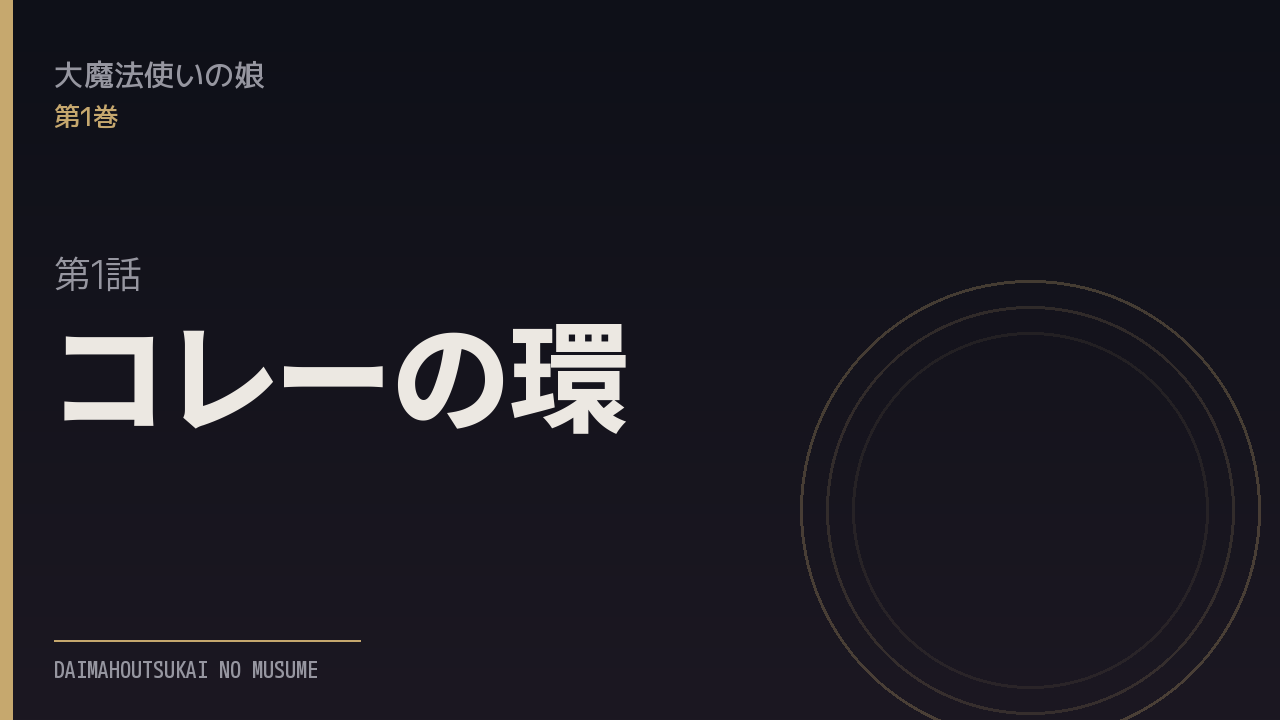
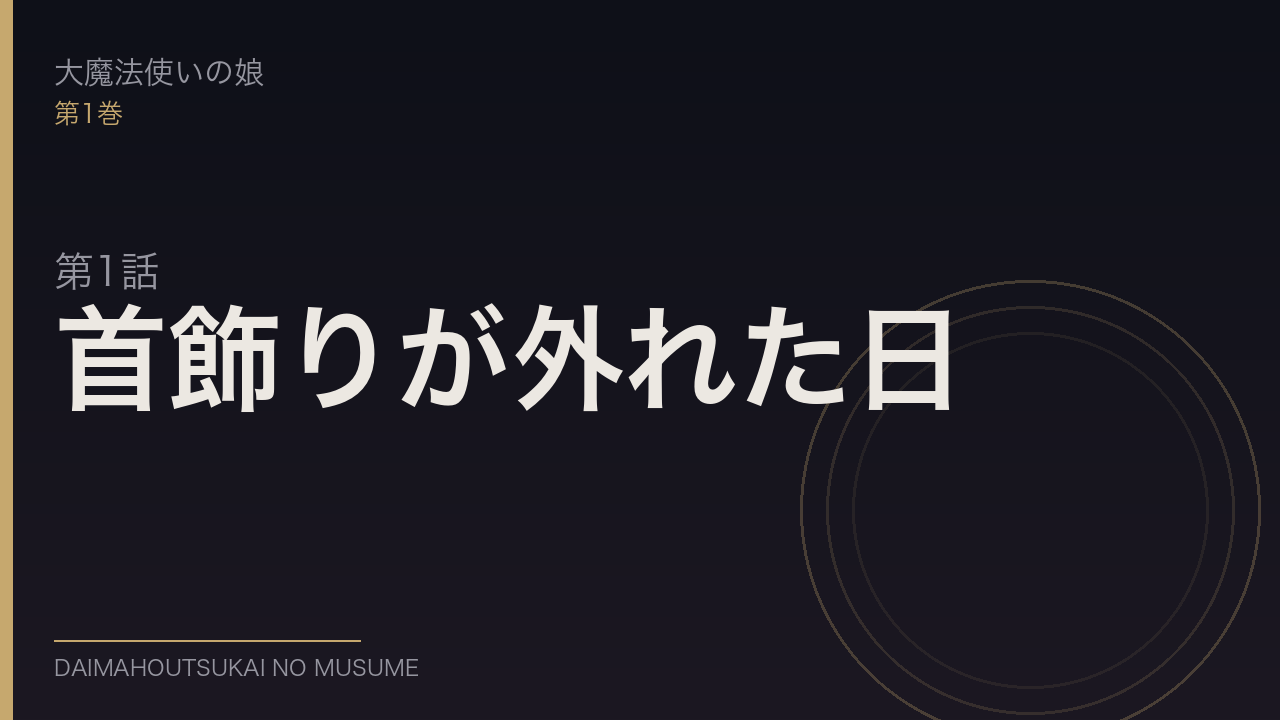
連載 ep001: タイトル改題「首飾りが外れた日」

Changed region(s): [[0.0312, 0.3361, 0.75, 0.6111], [0.0312, 0.0611, 0.2188, 0.1833], [0.0312, 0.9167, 0.3438, 0.9472]]

diff --git a/docs/ep001.html b/docs/ep001.html
@@ -3,16 +3,16 @@
 <head>
 <meta charset="utf-8">
 <meta name="viewport" content="width=device-width, initial-scale=1">
-<title>コレーの環 | 大魔法使いの娘</title>
+<title>首飾りが外れた日 | 大魔法使いの娘</title>
 <meta property="og:type" content="article">
 <meta property="og:site_name" content="大魔法使いの娘">
-<meta property="og:title" content="第1話　コレーの環 | 大魔法使いの娘">
+<meta property="og:title" content="第1話　首飾りが外れた日 | 大魔法使いの娘">
 <meta property="og:description" content="リディア・アークライトは、よく忘れられる。それは、いじめではなかった。誰かに机を蹴られるわけではない。教科書を隠されるわけでもない。廊下ですれ違った生徒に、あからさまに笑われること…">
 <meta property="og:url" content="https://kzhrknt.github.io/ai-serial-novel/ep001.html">
 <meta property="og:image" content="https://kzhrknt.github.io/ai-serial-novel/assets/thumbs/ep001.png">
 <meta property="og:locale" content="ja_JP">
 <meta name="twitter:card" content="summary_large_image">
-<meta name="twitter:title" content="第1話　コレーの環 | 大魔法使いの娘">
+<meta name="twitter:title" content="第1話　首飾りが外れた日 | 大魔法使いの娘">
 <meta name="twitter:description" content="リディア・アークライトは、よく忘れられる。それは、いじめではなかった。誰かに机を蹴られるわけではない。教科書を隠されるわけでもない。廊下ですれ違った生徒に、あからさまに笑われること…">
 <meta name="twitter:image" content="https://kzhrknt.github.io/ai-serial-novel/assets/thumbs/ep001.png">
 <meta name="description" content="リディア・アークライトは、よく忘れられる。それは、いじめではなかった。誰かに机を蹴られるわけではない。教科書を隠されるわけでもない。廊下ですれ違った生徒に、あからさまに笑われること…">
@@ -25,7 +25,7 @@
   <div class="epno">第1話</div>
 </header>
 <article>
-  <h1>コレーの環</h1>
+  <h1>首飾りが外れた日</h1>
   <p>リディア・アークライトは、よく忘れられる。</p>
 <p>　それは、いじめではなかった。</p>
 <p>　誰かに机を蹴られるわけではない。<br>

diff --git a/docs/index.html b/docs/index.html
@@ -44,7 +44,7 @@
 <main>
   <h2>目次</h2>
   <ol class="toc">
-    <li><a href="ep001.html">第1話　コレーの環</a></li>
+    <li><a href="ep001.html">第1話　首飾りが外れた日</a></li>
     <li><a href="ep002.html">第2話　三日のうちに</a></li>
     <li><a href="ep003.html">第3話　忘れられた書庫</a></li>
     <li><a href="ep004.html">第4話　夜の馬車</a></li>

diff --git a/README.md b/README.md
@@ -23,7 +23,7 @@
 ## 目次
 
 <!-- EPISODES:START -->
-- [第1話　コレーの環](episodes/ep001.md)
+- [第1話　首飾りが外れた日](episodes/ep001.md)
 - [第2話　三日のうちに](episodes/ep002.md)
 - [第3話　忘れられた書庫](episodes/ep003.md)
 - [第4話　夜の馬車](episodes/ep004.md)

diff --git a/episodes/ep001.md b/episodes/ep001.md
@@ -1,4 +1,4 @@
-# 第1話　コレーの環
+# 第1話　首飾りが外れた日
 
 リディア・アークライトは、よく忘れられる。
 